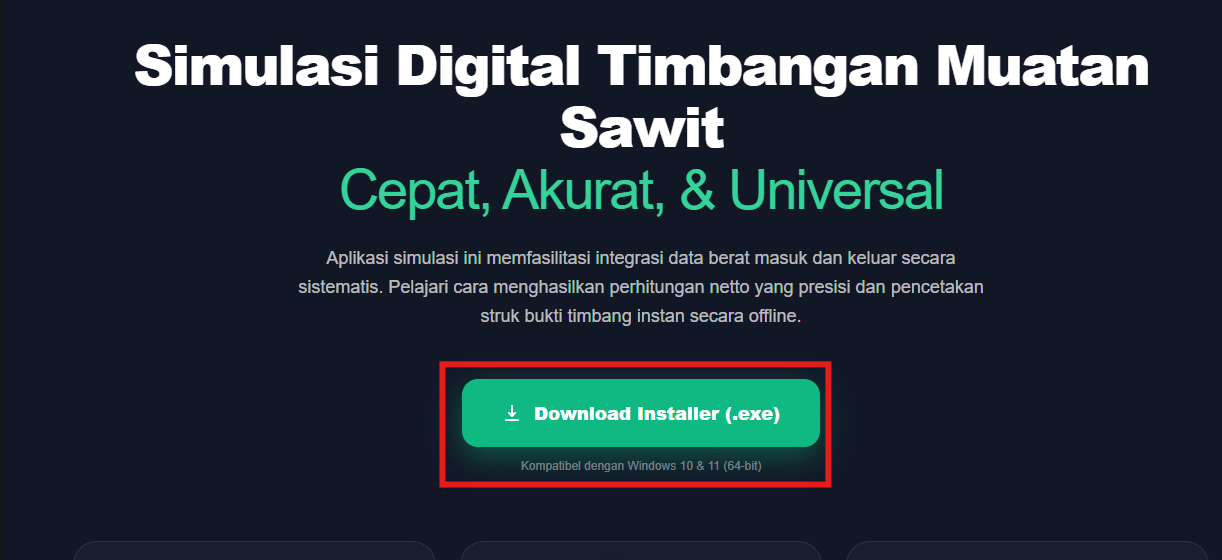
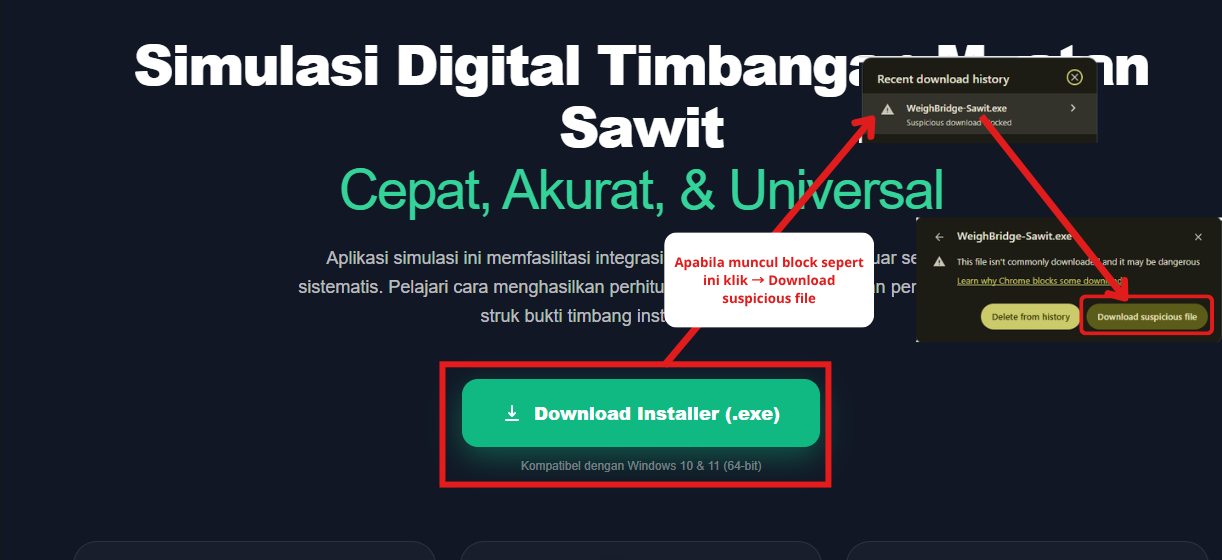
update

Changed region(s): [[0.7463, 0.3036, 1.0, 0.6071], [0.5286, 0.3643, 0.7152, 0.6375], [0.653, 0.0911, 0.9018, 0.3643]]

diff --git a/src/App.vue b/src/App.vue
@@ -14,7 +14,7 @@ const features = [
 const installationSteps = [
   {
     title: "1. Unduh & Jalankan Installer",
-    desc: "Klik tombol download di atas untuk mendapatkan file .exe. Setelah selesai, buka file tersebut untuk memulai proses instalasi simulasi.",
+    desc: "Klik tombol download di atas untuk mendapatkan file .exe. apabila ada peringatan Danger Setelah selesai, buka file tersebut untuk memulai proses instalasi simulasi.",
     img: "step1.png", 
     isLeft: true
   },
